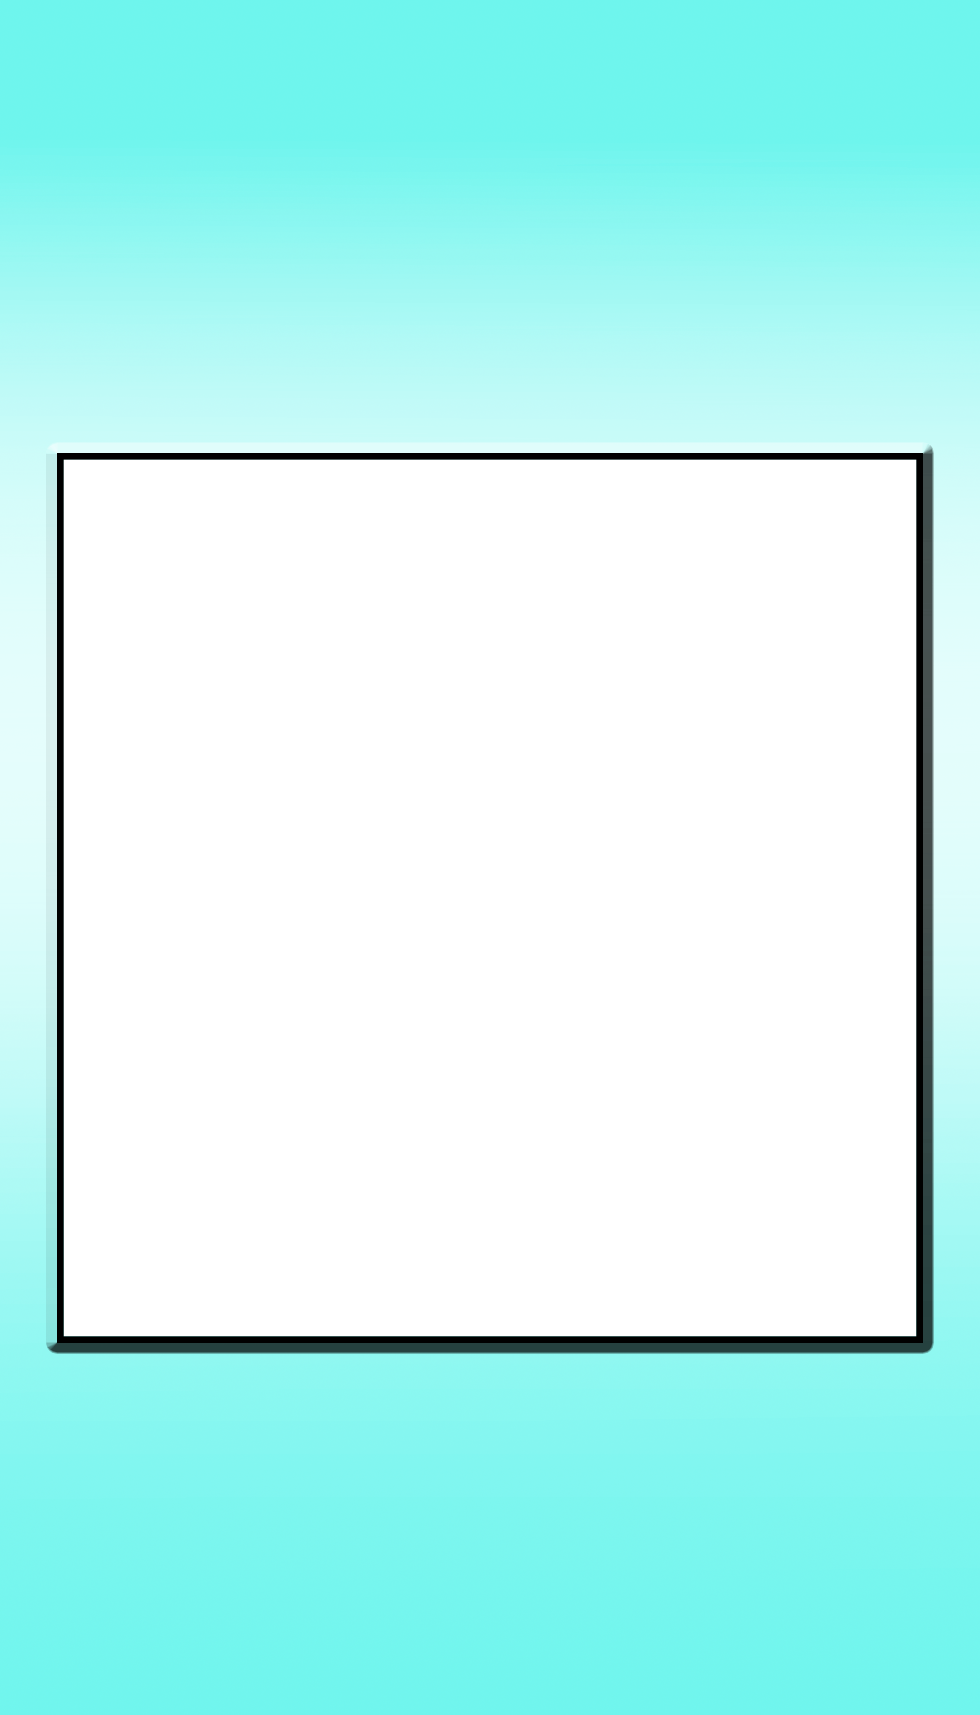
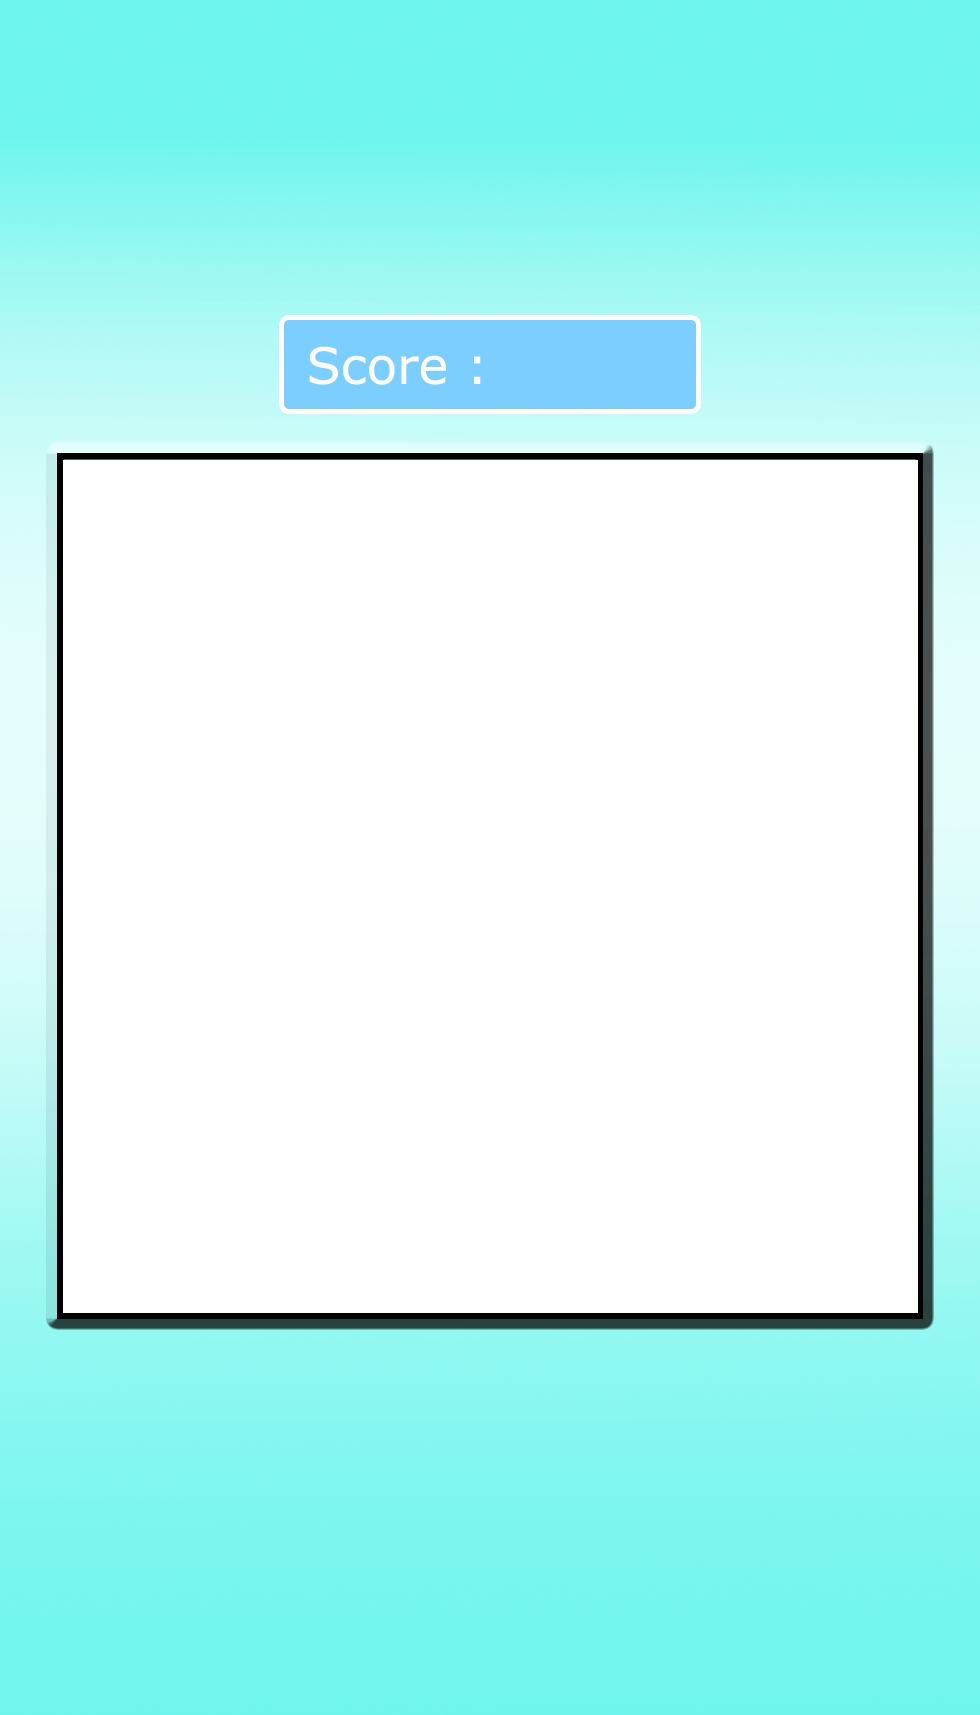
tmp

Changed region(s): [[0.0306, 0.7417, 0.949, 0.8035], [0.2755, 0.1854, 0.7347, 0.2472]]

diff --git a/grid.js b/grid.js
@@ -11,13 +11,22 @@ function Grid(sz,tab) {
   this.score = 0;
   this.initial_grid = tab;
   this.continuer = false;
-
+  this.tab_score = Array(11);
+  
   this.init = function() {
     for (var i =0; i<this.n+2; i++)
     {
       this.x_to_pix[i] = floor(this.cell_w*i);
       this.y_to_pix[i] = floor(this.cell_h*i);
     }
+    
+    this.tab_score[2] = 4;
+    this.tab_score[3] = 27;
+    this.tab_score[4] = 256;
+    this.tab_score[5] = 3125;
+    this.tab_score[6] = 46656;
+    this.tab_score[7] = 823543;
+    this.tab_score[8] = 16777216;
     
     var i = 0;
     while ( i< sz)
@@ -128,12 +137,11 @@ function Grid(sz,tab) {
     
     image(bckgrnd,0,0,width,height);
     //Affiche score:
-    image(score,10*width/35,11*height/61,24.7*height/61-11*height/61,14.5*width/35-11*width/35);
     strokeWeight(0);
     fill(255,255, 255);
     textAlign(LEFT);
     textSize(30);
-    text(this.score, width/2, 12.9*height/61);
+    text(this.score, width/2, 13.1*height/61);
   }
 
   this.brique_appear = function()
@@ -185,7 +193,7 @@ function Grid(sz,tab) {
       }
     } // fin parcours de boucle
     if (flag) {
-      this.score = this.score + l[0].value*l[0].value;
+      this.score = this.score + this.tab_score[l[0].value];
       grille.evolve(l);
       // generation nouvelles briques
       lo = max(this.n - 6, 1);

diff --git a/index.html b/index.html
@@ -13,7 +13,6 @@
   <script language="javascript" type="text/javascript" src="preload.js"></script>
   <script language="javascript" type="text/javascript" src="game.js"></script>
   <!-- OK, YOU CAN MAKE CHANGES BELOW THIS LINE AGAIN -->
-  <script src="https://cdnjs.cloudflare.com/ajax/libs/p5.js/0.5.11/p5.min.js"></script>
 
   <!-- This line removes any default padding and style. 
   You might only need one of these values set. -->
@@ -32,6 +31,6 @@ margin:
   </head>
 
   <body>
-  <div id="container_game" style="margin: 0px auto; text-align: center";position: relative;>
+  <div id="container_game" style="margin: 0px auto; text-align: center; position: relative;">
   </body>
   </html>

diff --git a/game.js b/game.js
@@ -16,7 +16,23 @@ var file = "init_grid.csv";
 
 function setup() {
   //var canvas = createCanvas(min(w,750*2), min(h,1334*2)-5);
-  var canvas = createCanvas(w, 16*w/9);
+  
+  //FORCER LE RAPPORT :
+  if(h/w > 1715/980) // H > W on dit que W est limitant
+  {
+    h=w*1715/980;
+  }else
+  {
+    w = h*980/1715;
+  }
+  
+  
+
+
+  document.getElementById('container_game').style.width = w ;
+  document.getElementById('container_game').style.height = h ;
+  
+  var canvas = createCanvas(w, h);
   print(w);
   print(width);
   print(h);

diff --git a/endgame.js b/endgame.js
@@ -162,9 +162,9 @@ function EndGame()
     this.input.hide();
 
 
-
     this.b = createButton('Envoyer');
     this.b.position(floor(width/4), this.input.y+this.input.height + 10);
+    this.b.parent("container_game");
     this.b.style("width", floor(width/2)+"px");
     this.b.style("height", floor(height/16)+"px");
     this.b.style("font-size", floor(height/28)+"px");
